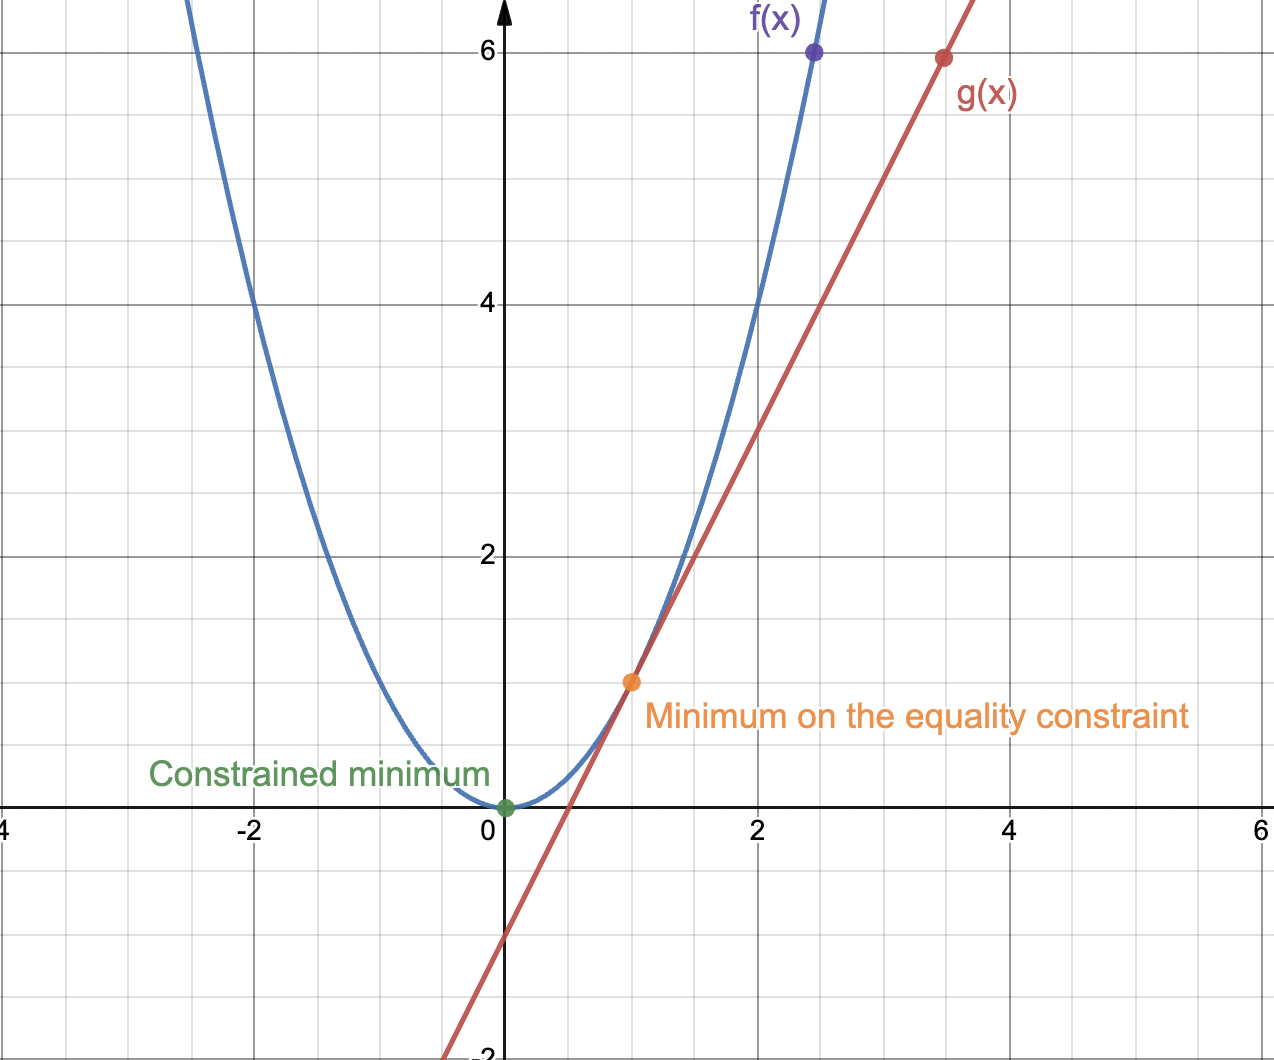
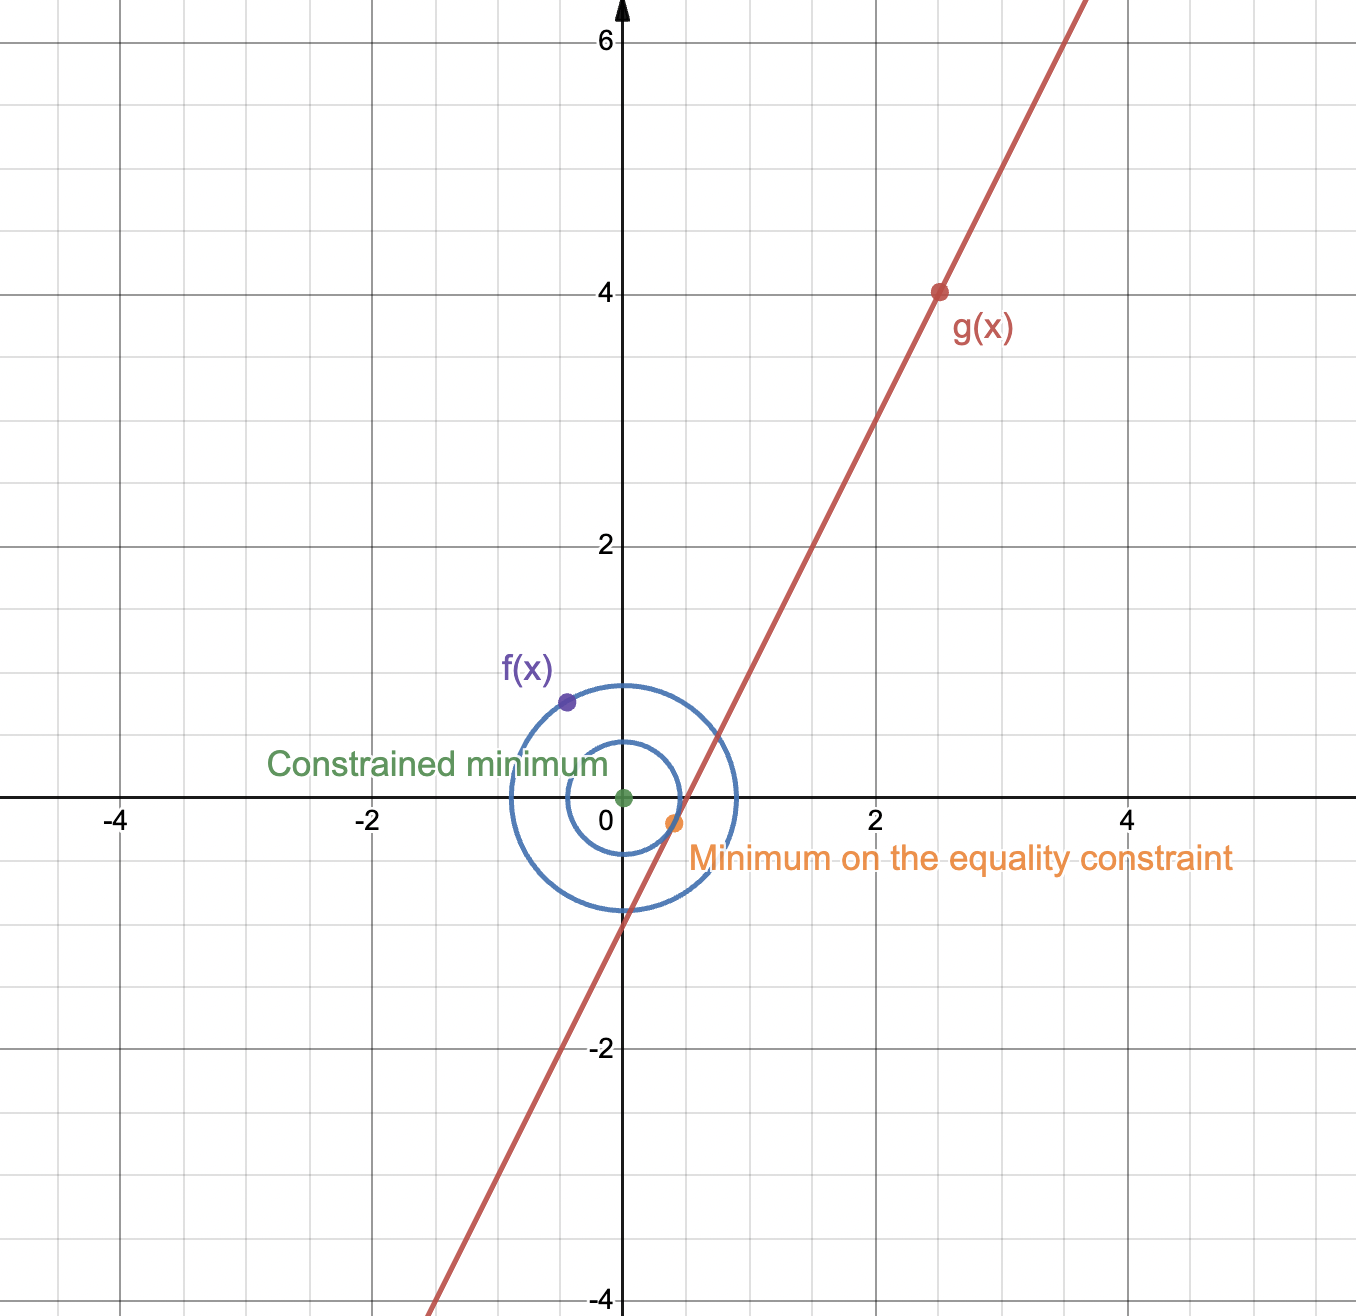
Change function charts with the corrected 2D versions.

Changed region(s): [[0.0, 0.0, 1.0, 1.0]]

diff --git a/_posts/2023-05-28-lagrangian.md b/_posts/2023-05-28-lagrangian.md
@@ -28,11 +28,11 @@ Let us assume we want to optimize $$f(x)$$ without any constraints. To do this, 
 <div style="text-align: center;">
 {% include figure.html path="assets/img/lagrangian/min_f_not_constrained_min.png" class="img-fluid w-50 rounded z-depth-1" %}
 <p align = "center">
-An example where the minimum of an objective function is not identical to the constrained minimum. Made with &copy; Desmos.
+An example where the minimum of an objective function is not identical to the constrained minimum (for simplification, the contour plot of a higher dimensional function onto a 2D space is shown). Made with &copy; Desmos.
 </p>
 </div>
 
-As we can see in the picture from above, the constrained minimum does not coincide with the minimum of $$f$$ and it is actually materialized at $$x_{min} = (-0.63, 0.38)$$. This is a bit to the left of the minimum of $$f$$. And, more importantly, $$\nabla f(x_{min})$$ is not $$0$$. To find this type of points analytically, Lagrange figured out that, instead of looking at where the gradient is 0, one should look instead at where the gradients of the constraint function and the objective function are parallel. This intuition is very revealing, due to the fact that the set of points among which we're searching our minimum must be the set of points on the constraint line. If we take a certain point on a line and there exists another point that leads to a better minimum on the same line, then the gradient of $$f$$ must point towards it. Therefore, it cannot be perpendicular on the tangent line to the curve at this point. Meanwhile, the gradient of the constraint function is always perpendicular on the line (one can also visualize it as the normal vector of the line). Similarly, if there is no other point better than the current point, then the gradient of $$f$$ must be perpendicular on the tangent (there is no better minimum on the constraint line, but there is one potentially outside of it - however, we are not interested in it). But since this point is on the constraint line, the gradient of $$g$$ (the constraint function) must also be perpendicular on the constraint line (and on the tangent, by extension). Therefore, by ensuring that the two gradients are parallel, we are sure that there cannot be a more optimal point than this. This can be visualized as follows:
+As we can see in the picture from above, the constrained minimum does not coincide with the minimum of $$f$$ and it is actually materialized at a point towards the upper-left side of the minimum of $$f$$. And, more importantly, $$\nabla f(x_{min})$$ is not $$0$$. To find this type of points analytically, Lagrange figured out that, instead of looking at where the gradient is 0, one should look instead at where the gradients of the constraint function and the objective function are parallel. This intuition is very revealing, due to the fact that the set of points among which we're searching our minimum must be the set of points on the constraint line. If we take a certain point on a line and there exists another point that leads to a better minimum on the same line, then the gradient of $$f$$ must point towards it. Therefore, it cannot be perpendicular on the tangent line to the curve at this point. Meanwhile, the gradient of the constraint function is always perpendicular on the line (one can also visualize it as the normal vector of the line). Similarly, if there is no other point better than the current point, then the gradient of $$f$$ must be perpendicular on the tangent (there is no better minimum on the constraint line, but there is one potentially outside of it - however, we are not interested in it). But since this point is on the constraint line, the gradient of $$g$$ (the constraint function) must also be perpendicular on the constraint line (and on the tangent, by extension). Therefore, by ensuring that the two gradients are parallel, we are sure that there cannot be a more optimal point than this. This can be visualized as follows:
 
 <div style="text-align: center;">
 {% include figure.html path="assets/img/lagrangian/LagrangeMultipliers2D.png" class="img-fluid rounded z-depth-1 w-50" %}
@@ -53,17 +53,17 @@ $$\lambda$$ is a scalar that ensure that the vector gradients have the same dire
 
 # The Lagrangian
 
-Below we'll provide a justification and an intuition for the formulation of the Lagrangian.
+Problems in practice can be even more complex than what we've seen before. A natural extension of the method above that makes use of the Lagrangian will be introduced and justified.
 
 ## Justification
 
-Problems in practice can be even more complex than this. In particular, one can find optimization problems, for which the contraint functions can be inequalities. For these situations, an extension of the method would be required. To understand why, let us have a look at the following example. Assume we have an objective function $$f(x)=x^2$$ with one constraint $$2 \cdot x \leq 1$$ (without loss of generalization we treat these constraints; constraints of the type $$c(x) \geq a$$ can be reformulated into $$c'(x) \leq -a$$, where $$c'(x)=-c(x)$$), which can be rephrased as follows:
+In practice one typically encounters optimization problems, for which the constraint functions can be inequalities. For these situations, an extension of the method would be required. To understand why, let us have a look at the example from above again. Assume we have the objective function $$f(x)=\frac{x^2}{2}+\frac{y^2}{2}$$ with one constraint $$2 \cdot x - y \leq 1$$ (without loss of generalization we consider only constraints of this type; constraints of the type $$c(x) \geq a$$ can be reformulated into $$c'(x) \leq -a$$, where $$c'(x)=-c(x)$$), which can be rephrased as follows:
 
-$$f(x) = x^2$$
+$$f(x)=\frac{x^2}{2}+\frac{y^2}{2}$$
 
 $$g(x) \leq 0$$
 
-In the equations, I have rewritten the constraint as $$g(x) = 2 \cdot x - 1$$. Let us have a look at the graph of these functions.
+In the equations from above, I have rewritten the constraint as $$g(x) = 2 \cdot x - y - 1$$. Let us have a look at the graph of these functions.
 
 <div style="text-align: center;">
 {% include figure.html path="assets/img/lagrangian/example_ineq_constraint.png" class="img-fluid rounded w-50 z-depth-1" %}
